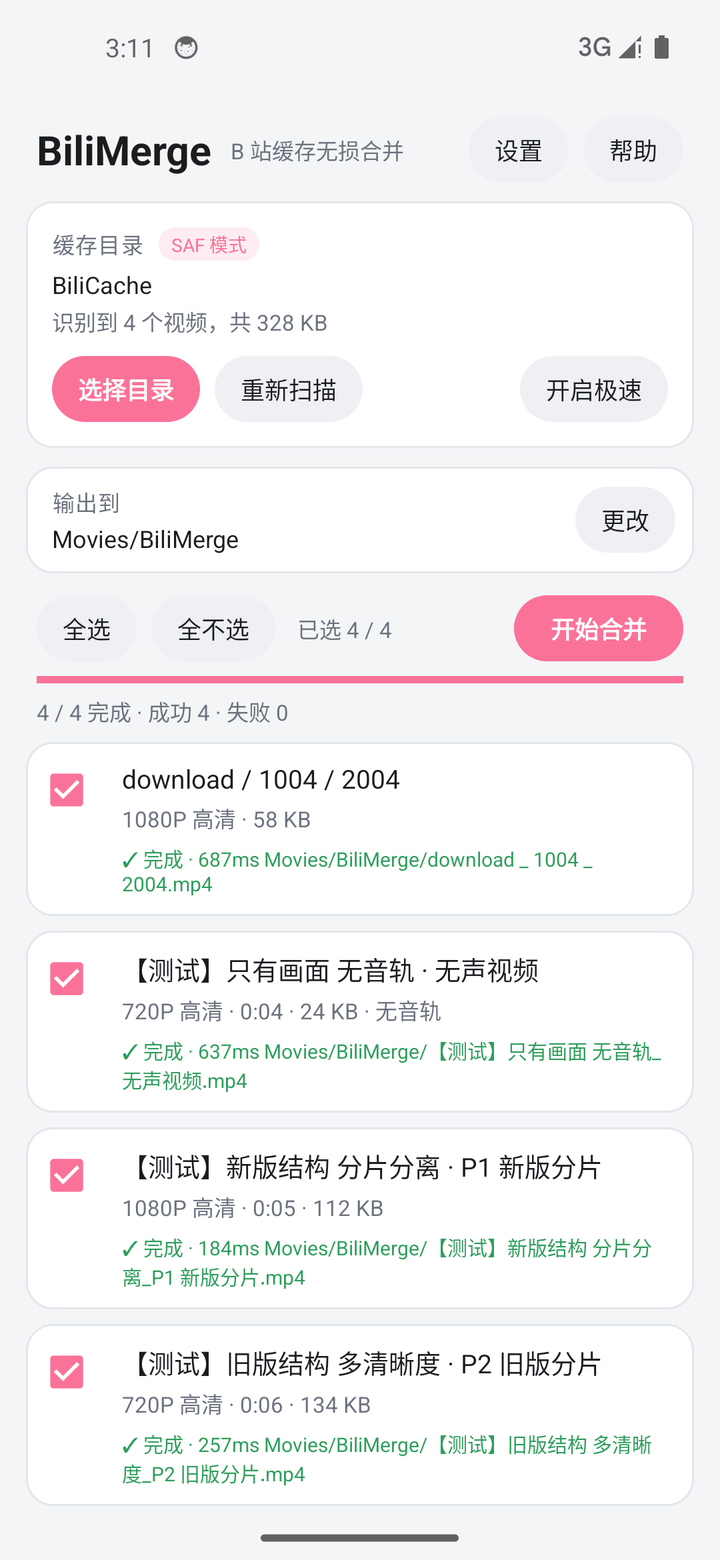
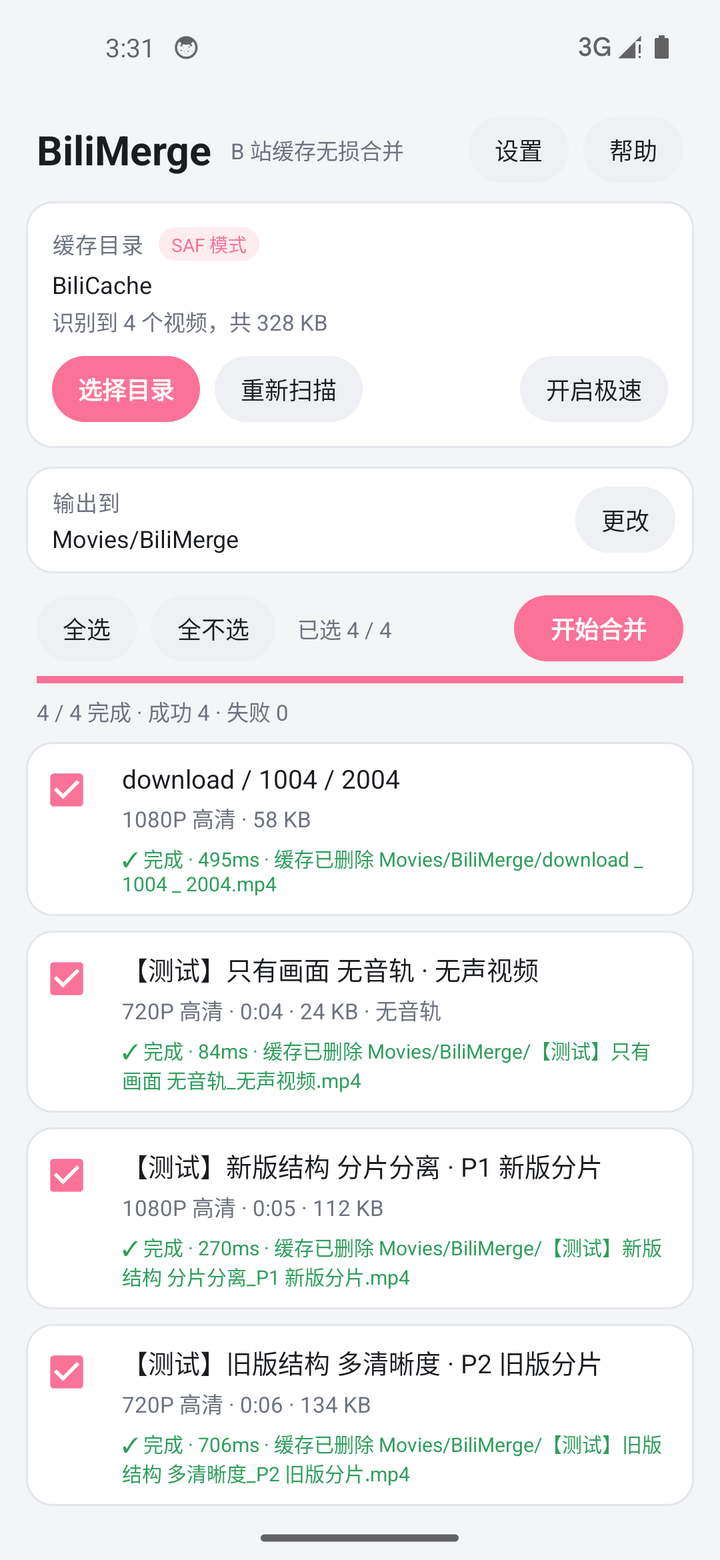
feat: 清理改为删除整个缓存条目目录
按反馈调整清理粒度。v1.1.0 只删本次用到的 m4s，会留下一堆装着 entry.json、
index.json 和未使用清晰度的空壳目录，空间释放不彻底。改为合并成功后把该视频的
缓存目录整个删掉。

实现要点：

- BiliItem 新增 rootDir 与 rootIsScanRoot，记录条目根目录及其身份
- BiliScanner 把扫描根本身也登记进 nodeMap，并据此标记 rootIsScanRoot
- Storage 新增 deleteTree 默认实现，自己递归删除——DocumentsContract.deleteDocument
  与 File.delete() 都只能删空目录，对非空目录直接调用会失败
- MergeEngine.cleanupItem 取代原来的 deleteSources
- 唯一的例外：条目根恰好是用户选中的扫描根时，只清空内容、保留目录本身，
  否则用户选的目录会凭空消失，下次扫描直接报目录不存在

顺带修掉一个单元测试抓出来的真实 bug：FileStorage.delete() 早先用 f.isFile
判断，把目录排除在外，导致递归清空后删不掉目录本身、deleteTree 整体返回 false，
界面上会误报“清理失败”，而目录其实还原样在那儿。改用 f.exists()。

验证：

- 9 个单元测试全绿，新增 2 个覆盖整目录删除与“扫描根例外”分支
- 模拟器端到端复跑：4 个条目目录全部消失、剩余文件数 0，
  扫描根 BiliCache 与中间层 download/{avid} 正确保留，输出 4 个 mp4 完好

版本号升至 1.2.0（versionCode 3）。

diff --git a/app/src/test/java/com/dsh/bilimerge/core/scan/RealDatasetScanTest.kt b/app/src/test/java/com/dsh/bilimerge/core/scan/RealDatasetScanTest.kt
@@ -63,33 +63,48 @@ class RealDatasetScanTest {
     }
 
     @Test
-    fun `清理源分片只删除媒体文件_保留元信息与目录`() {
+    fun `清理会删除整个条目目录_其它条目不受影响`() {
         val root = unzipDataset()
         val storage = FileStorage(root)
         val items = BiliScanner(storage).scan(storage.root())
         assertEquals(4, items.size)
 
-        // 模拟 MergeEngine.deleteSources 的行为
         val target = items.single { it.title.contains("新版结构") }
-        val before = target.videos.size + target.audios.size
-        var removed = 0
-        target.videos.forEach { if (storage.delete(it)) removed++ }
-        target.audios.forEach { if (storage.delete(it)) removed++ }
-        assertEquals("本次用到的分片都应被删掉", before, removed)
+        val rootDir = target.rootDir
+        assertTrue("条目应记录根目录", rootDir != null)
+        assertTrue("条目根不应等于扫描根", !target.rootIsScanRoot)
 
-        // 分片确实没了
-        assertTrue(!File(target.videos[0].path!!).exists())
-        assertTrue(!File(target.audios[0].path!!).exists())
+        val dir = File(rootDir!!.path!!)
+        assertTrue("清理前条目目录应存在", dir.isDirectory)
+        assertTrue("目录里应有 entry.json", File(dir, "entry.json").isFile)
 
-        // entry.json / index.json 与目录本身必须留着：清理只针对媒体文件
-        val dir = File(target.videos[0].path!!).parentFile!!
-        assertTrue("目录不应被删除", dir.isDirectory)
-        assertTrue("entry.json 不应被删除", File(dir.parentFile, "entry.json").isFile)
-        assertTrue("index.json 不应被删除", File(dir, "index.json").isFile)
+        // 模拟 MergeEngine.cleanupItem 的行为
+        assertTrue(storage.deleteTree(rootDir))
+        assertTrue("条目目录应被整个删除", !dir.exists())
 
-        // 其它条目不受影响
+        // 同一父目录下的另一个条目不该被牵连
         val other = items.single { it.title.contains("旧版结构") }
-        assertTrue("别的条目不该被牵连", File(other.videos[0].path!!).exists())
+        assertTrue("别的条目不该被牵连", File(other.rootDir!!.path!!).isDirectory)
+    }
+
+    @Test
+    fun `条目根就是扫描根时_只清空内容而保留目录本身`() {
+        val base = unzipDataset()
+        // 直接进到某个分P的缓存目录作为扫描根，此时条目根 == 扫描根
+        val scanDir = File(base, "1001/2001")
+        val storage = FileStorage(scanDir)
+        val items = BiliScanner(storage).scan(storage.root())
+
+        assertEquals(1, items.size)
+        assertTrue("根目录即扫描根时该标记必须为真", items[0].rootIsScanRoot)
+
+        val rootDir = items[0].rootDir!!
+        val dir = File(rootDir.path!!)
+        // 模拟 cleanupItem 对扫描根的分支：逐项清空，保留目录
+        storage.children(rootDir).forEach { storage.deleteTree(it) }
+
+        assertTrue("扫描根目录本身必须留着", dir.isDirectory)
+        assertEquals("内容应被清空", 0, dir.listFiles()?.size ?: 0)
     }
 
     @Test

diff --git a/app/src/main/java/com/dsh/bilimerge/core/merge/MergeEngine.kt b/app/src/main/java/com/dsh/bilimerge/core/merge/MergeEngine.kt
@@ -141,26 +141,49 @@ class MergeEngine(private val storage: Storage) {
         return Outcome(false, cancelled, msg, elapsed, output.label)
     }
 
+    /** 清理结果 */
+    class CleanupResult(
+        /** 目标是否已被彻底清干净 */
+        val ok: Boolean,
+        /** true 表示目标是扫描根目录，只清空了内容、目录本身保留 */
+        val keptRootDir: Boolean,
+        /** 失败原因，成功时为空 */
+        val reason: String = "",
+    )
+
     /**
-     * 清理本次合并用到的源分片。
+     * 清理整个缓存条目目录。
      *
      * 调用方必须**只在成品确认落盘之后**调用它——这是不可逆操作。
      *
-     * 只删 [BiliItem.videos] 与 [BiliItem.audios] 里记录的媒体文件：它们是 GB 级的空间大头。
-     * 刻意不碰 entry.json / index.json / 弹幕，也不删目录本身——那些只有几 KB，
-     * 留着既能保留缓存的元信息，也避免把用户没要求删的东西一并抹掉。
+     * 默认把条目根目录连同其中所有内容一起删掉：本次用到的分片、没被选中的其它清晰度、
+     * entry.json、index.json、弹幕，一个不留。这样批量处理完不会留下一堆空壳目录，
+     * 空间也释放得最彻底。
      *
-     * @return 成功删除的文件数；SAF 目录未授予写权限时会返回 0
+     * 唯一的例外是扫描根：如果条目根目录恰好就是用户选中的那个目录，删它会让用户选的
+     * 目录凭空消失（下次扫描直接报目录不存在），这种情况改为只清空内容、保留目录本身。
      */
-    fun deleteSources(item: BiliItem): Int {
-        var removed = 0
-        for (node in item.videos) {
-            if (storage.delete(node)) removed++
+    fun cleanupItem(item: BiliItem): CleanupResult {
+        val dir = item.rootDir
+            ?: return CleanupResult(false, false, "拿不到条目目录的引用")
+
+        if (item.rootIsScanRoot) {
+            storage.children(dir).forEach { storage.deleteTree(it) }
+            // 复查一次：删除是逐项进行的，可能只成功了一部分（例如无写权限）
+            val remaining = storage.children(dir).size
+            return CleanupResult(
+                ok = remaining == 0,
+                keptRootDir = true,
+                reason = if (remaining == 0) "" else "无写权限或目录被占用",
+            )
         }
-        for (node in item.audios) {
-            if (storage.delete(node)) removed++
-        }
-        return removed
+
+        val ok = storage.deleteTree(dir)
+        return CleanupResult(
+            ok = ok,
+            keptRootDir = false,
+            reason = if (ok) "" else "无写权限或目录被占用",
+        )
     }
 
     /** 从 ffmpeg 的 stderr 里挑出最有信息量的一行给用户看 */

diff --git a/app/src/main/java/com/dsh/bilimerge/core/fs/Storage.kt b/app/src/main/java/com/dsh/bilimerge/core/fs/Storage.kt
@@ -42,10 +42,30 @@ interface Storage {
      * 删除一个文件。
      *
      * SAF 后端要求该目录被授予了写权限，权限不足或 provider 拒绝时返回 false
-     * （不会抛异常，调用方据此提示"源文件清理失败"即可）。
-     * 只用于删除本次合并真正用到的源分片，绝不删除目录。
+     * （不会抛异常，调用方据此提示"清理失败"即可）。
      */
     fun delete(node: DocRef): Boolean
+
+    /**
+     * 递归删除一个节点（目录会连同其中的所有内容一起删掉）。
+     *
+     * 必须自己递归：`DocumentsContract.deleteDocument` 与 `File.delete()` 都只能删空目录，
+     * 对非空目录直接调用会失败。先清子项、再删自身。
+     *
+     * @return true 表示该节点最终确实不存在了
+     */
+    fun deleteTree(node: DocRef): Boolean {
+        if (node.isDir) {
+            for (child in children(node)) {
+                if (child.isDir) {
+                    deleteTree(child)
+                } else {
+                    delete(child)
+                }
+            }
+        }
+        return delete(node)
+    }
 }
 
 // ---------------------------------------------------------------------------
@@ -249,7 +269,10 @@ class FileStorage(private val rootDir: File) : Storage {
 
     override fun delete(node: DocRef): Boolean {
         val f = File(node.path ?: return false)
-        return runCatching { f.isFile && f.delete() }.getOrDefault(false)
+        // 注意用 exists() 而不是 isFile：deleteTree 递归清空后还要删掉目录本身，
+        // 若在这里把目录排除掉，整个 deleteTree 会返回 false（看着像"清理失败"），
+        // 而目录其实并没有被删除。File.delete() 本身只能删空目录，这点由调用方保证。
+        return runCatching { f.exists() && f.delete() }.getOrDefault(false)
     }
 }
 

diff --git a/app/src/main/java/com/dsh/bilimerge/MainActivity.kt b/app/src/main/java/com/dsh/bilimerge/MainActivity.kt
@@ -367,7 +367,7 @@ class MainActivity : AppCompatActivity() {
         val options = arrayOf(
             "为输出添加 faststart（便于边下边播，会多花一点时间）",
             "始终用兼容模式输出（先写私有目录再搬运，占双倍空间，仅在直写失败时需要）",
-            "合并成功后删除源缓存分片（不可恢复，但能及时释放空间）",
+            "合并成功后删除整个缓存文件夹（不可恢复，释放空间最彻底）",
         )
         val checked = booleanArrayOf(prefs.fastStart, prefs.forceStage, prefs.deleteSource)
         AlertDialog.Builder(this)
@@ -431,9 +431,9 @@ class MainActivity : AppCompatActivity() {
             · 只有画面没有声音的缓存也能合并，会自动识别
             · 目录结构从老版 {avid}/{cid}/lua.flv.bili2api.80/0.m4s 到新版
               {avid}/{cid}/{quality}/video.m4s 都支持，不依赖固定布局
-            · 合并默认不删除原缓存。批量处理怕占空间的话，可在「设置」里打开
-              「合并成功后删除源缓存分片」——它只在成品确认落盘后才执行，
-              且只删本次用到的 m4s，不会碰 entry.json 和目录本身
+            · 合并默认不删除缓存。批量处理怕占空间的话，可在「设置」里打开
+              「合并成功后删除整个缓存文件夹」——它只在成品确认落盘后才执行，
+              会把该视频的缓存目录连同分片、entry.json、未用到的其它清晰度一并删掉
         """.trimIndent()
     }
 }

diff --git a/app/src/main/java/com/dsh/bilimerge/core/merge/MergeManager.kt b/app/src/main/java/com/dsh/bilimerge/core/merge/MergeManager.kt
@@ -203,15 +203,13 @@ class MergeManager(private val context: Context) {
                 task.progress = 1f
                 val cost = com.dsh.bilimerge.core.util.Fmt.cost(o.elapsedMs)
                 // 清理放在这里而不是 engine 内部：只有 outcome.ok 才意味着成品已经 commit 成功，
-                // 此刻源分片才真正可以丢
+                // 此刻缓存才真正可以丢
                 task.message = if (deleteSource) {
-                    val total = task.item.videos.size + task.item.audios.size
-                    val removed = engine.deleteSources(task.item)
+                    val r = engine.cleanupItem(task.item)
                     when {
-                        total == 0 -> "完成 · $cost"
-                        removed == total -> "完成 · $cost · 源已清理"
-                        removed > 0 -> "完成 · $cost · 源清理 $removed/$total"
-                        else -> "完成 · $cost · 源未清理（无写权限）"
+                        !r.ok -> "完成 · $cost · 清理失败（${r.reason}）"
+                        r.keptRootDir -> "完成 · $cost · 缓存已清空"
+                        else -> "完成 · $cost · 缓存已删除"
                     }
                 } else {
                     "完成 · $cost"

diff --git a/app/src/main/java/com/dsh/bilimerge/core/scan/BiliScanner.kt b/app/src/main/java/com/dsh/bilimerge/core/scan/BiliScanner.kt
@@ -39,6 +39,9 @@ class BiliScanner(private val storage: Storage) {
         val entryFiles = ArrayList<DocRef>(64)
 
         // ---- 1. 广度优先遍历整棵树，一次拿到所有目录与媒体文件 ----
+        // 根目录本身也要登记进 nodeMap：它就是"用户选中的目录"，
+        // 清理逻辑需要拿到它的 DocRef 才能判断该不该跳过
+        nodeMap[root.key] = root
         var frontier = ArrayList<DocRef>(1).also { it += root }
         var scanned = 0
         while (frontier.isNotEmpty()) {
@@ -184,6 +187,8 @@ class BiliScanner(private val storage: Storage) {
             audios = audios,
             sourceBytes = if (bytes > 0) bytes else (meta?.totalBytes ?: 0L),
             hasMeta = meta != null,
+            rootDir = nodeMap[dirKey],
+            rootIsScanRoot = dirKey == rootKey,
         )
     }
 

diff --git a/app/src/main/java/com/dsh/bilimerge/core/model/BiliItem.kt b/app/src/main/java/com/dsh/bilimerge/core/model/BiliItem.kt
@@ -27,6 +27,17 @@ class BiliItem(
     val sourceBytes: Long,
     /** 是否存在 entry.json（false 说明是兜底识别出来的） */
     val hasMeta: Boolean,
+    /**
+     * 条目根目录：entry.json 所在目录；兜底识别时是被归并到的那一层。
+     * 开启清理后删的就是它，连同其中所有内容（分片、entry.json、其它清晰度、弹幕）。
+     */
+    val rootDir: DocRef?,
+    /**
+     * [rootDir] 是否恰好就是用户选中的扫描根目录。
+     * 是的话绝不能连它一起删——那样用户选的目录会凭空消失，
+     * 这种情况只清空其内容、保留目录本身。
+     */
+    val rootIsScanRoot: Boolean,
 ) {
     /** 列表里显示的标题 */
     val displayTitle: String

diff --git a/README.md b/README.md
@@ -41,7 +41,7 @@ B 站客户端把每个视频缓存成两路分离的 fMP4 分片（一路画面
 | 批量合并 | 并发队列，默认并发数 = CPU 核心数（2~4），可随时取消 |
 | 零拷贝 | 输入输出都走 ffmpeg-kit 的 `saf:` 协议（进程内 fd），不产生任何临时文件 |
 | 直达相册 | 默认输出 `Movies/BiliMerge/`，Android 10+ 无需任何存储权限 |
-| 可选清理源 | 合并成功后删除本次用到的 m4s，释放空间。精确到文件——元信息与未使用的清晰度原样保留 |
+| 可选清理缓存 | 合并成功后删除该视频的整个缓存目录，分片、entry.json、未用到的其它清晰度一起清掉 |
 | 极速模式 | 可选授予「所有文件访问权限」，扫描改走 `java.io` 直读，快一个数量级 |
 | 深色模式 | 跟随系统 |
 
@@ -127,19 +127,23 @@ download/1004/2004/80/{stream_a,stream_b}.m4s    无 entry.json，靠嗅探
 > 该轮验证在模拟器上完成。**真机测试仍待执行**——模拟器与真机的差异主要在
 > `ContentResolver` 的 provider 实现上，这也正是下面三级降级策略要覆盖的部分。
 
-### 源分片清理的验证（v1.1.0）
+### 缓存清理的验证（v1.2.0）
 
-打开「设置 → 合并成功后删除源缓存分片」后重跑同一套流程：
+打开「设置 → 合并成功后删除整个缓存文件夹」后重跑同一套流程：
 
 | 检查项 | 结果 |
 |---|---|
-| SAF 目录的删除权限 | 足够，四条均显示「✓ 完成 · 源已清理」 |
-| 源文件数量 | 15 → 8，本次用到的 7 个 m4s 被删除 |
-| 未使用的清晰度 | `lua.flv.bili2api.80/{0,1}.m4s` **原样保留**（合并用的是 64 那组） |
-| 元信息 | 所有 `entry.json` / `index.json` 保留 |
-| 目录本身 | 保留（即使已空） |
+| SAF 目录的删除权限 | 足够，四条均显示「✓ 完成 · 缓存已删除」 |
+| 条目目录 `{avid}/{cid}/` | 4 个全部消失 |
+| 剩余文件数 | **0**（分片、entry.json、index.json、未使用的清晰度全部清掉） |
+| 中间层目录 | `download/`、`{avid}/` 保留（它们不是条目根） |
+| 扫描根目录 | 保留——永远不会被删掉 |
+| 输出 | 4 个 mp4 完好可播 |
 
-第三条是关键：它证明清理是**按本次实际用到的文件**进行的，而不是无差别删除整个缓存目录。
+递归删除是自己实现的：`DocumentsContract.deleteDocument` 与 `File.delete()` **都只能删空目录**，
+对非空目录直接调用会失败，所以必须先递归清空再删自身。这条规则在单元测试里抓出过一个真实 bug——
+`FileStorage.delete()` 最初写成 `f.isFile && f.delete()`，把目录排除在外，
+导致递归清空后删不掉目录本身、整体返回 false，界面上会误报「清理失败」而目录其实还在。
 
 ---
 
